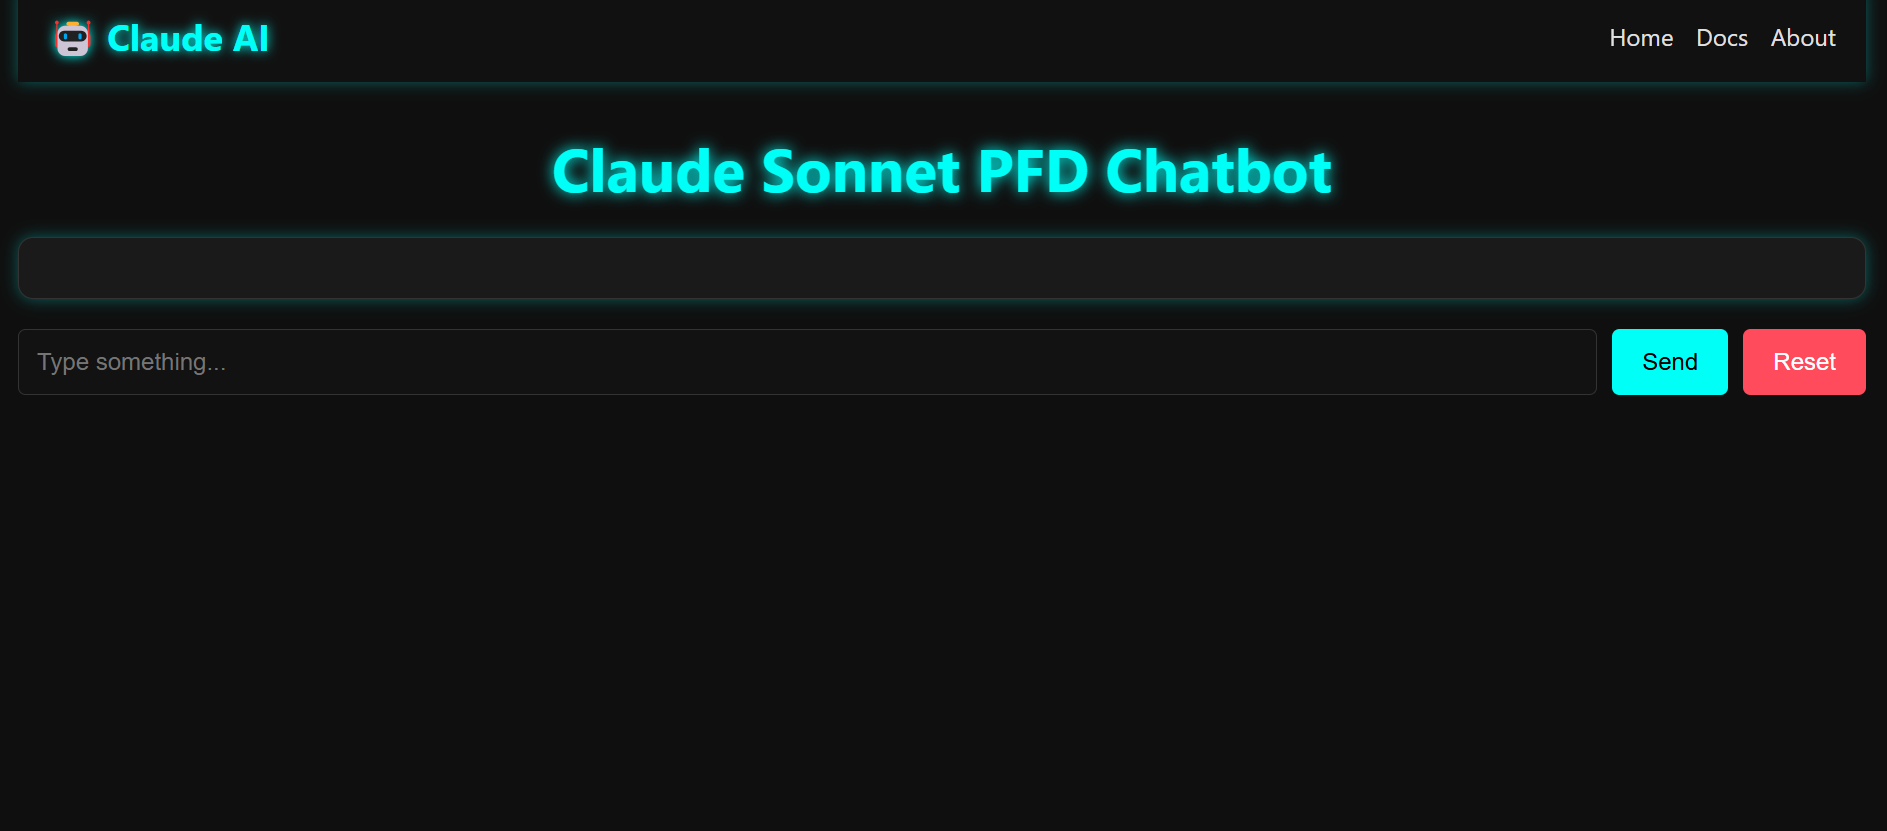
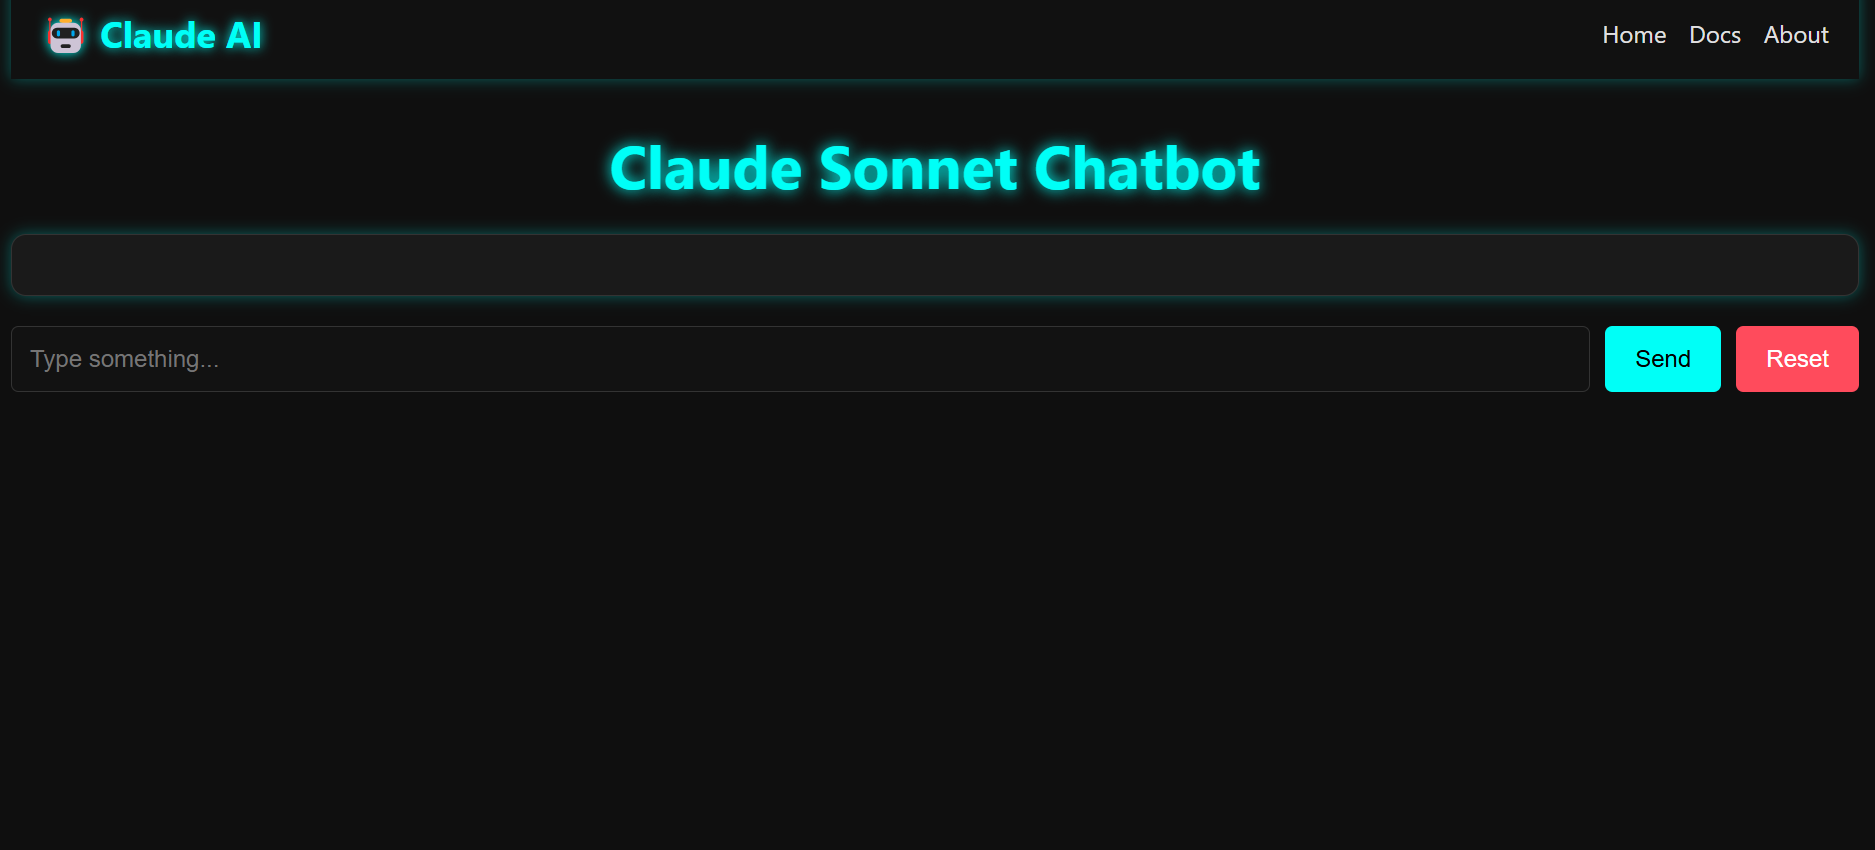
UI changes

diff --git a/templates/index.html b/templates/index.html
@@ -160,7 +160,7 @@
     </div>
   </nav>
 
-  <h1>Claude Sonnet PFD Chatbot</h1>
+  <h1>Claude Sonnet Chatbot</h1>
 
   <div id="chat-box"></div>
 
